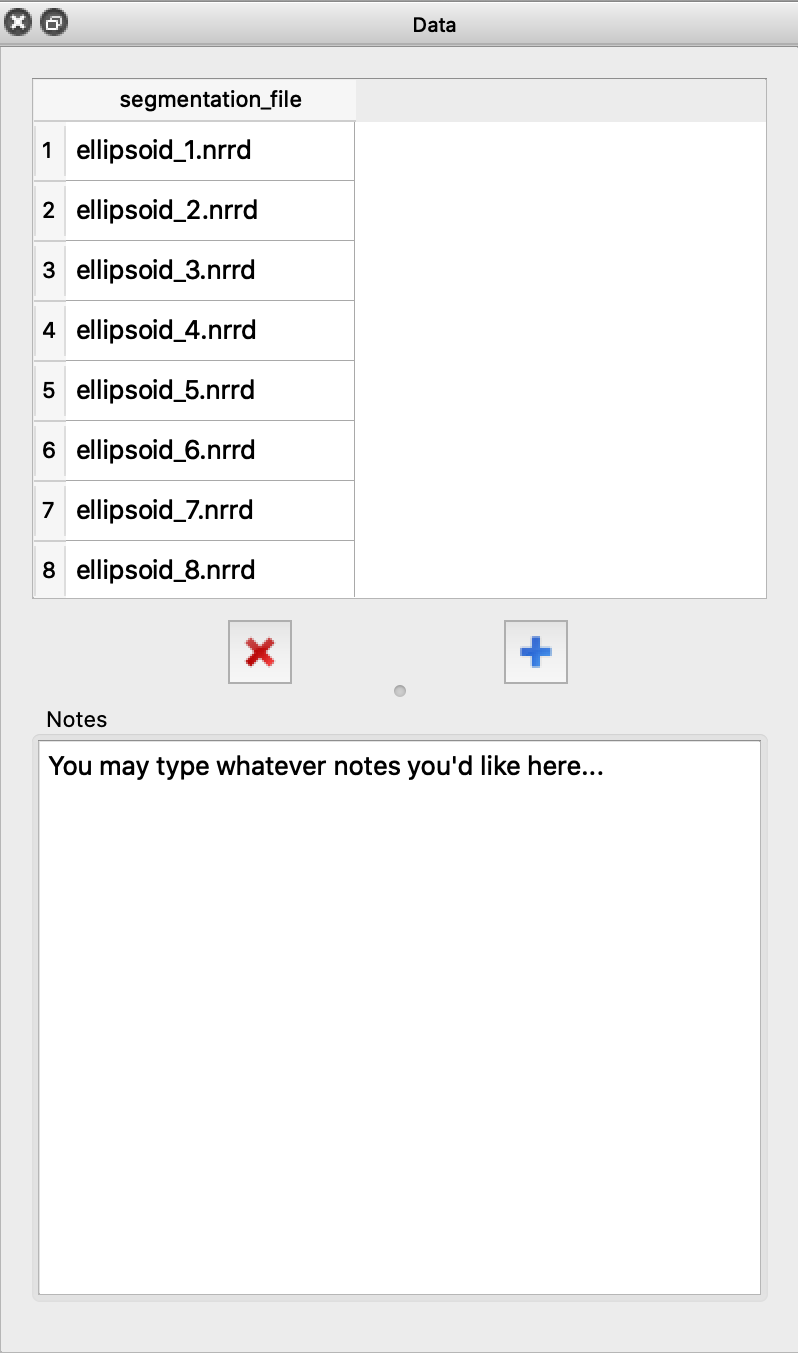
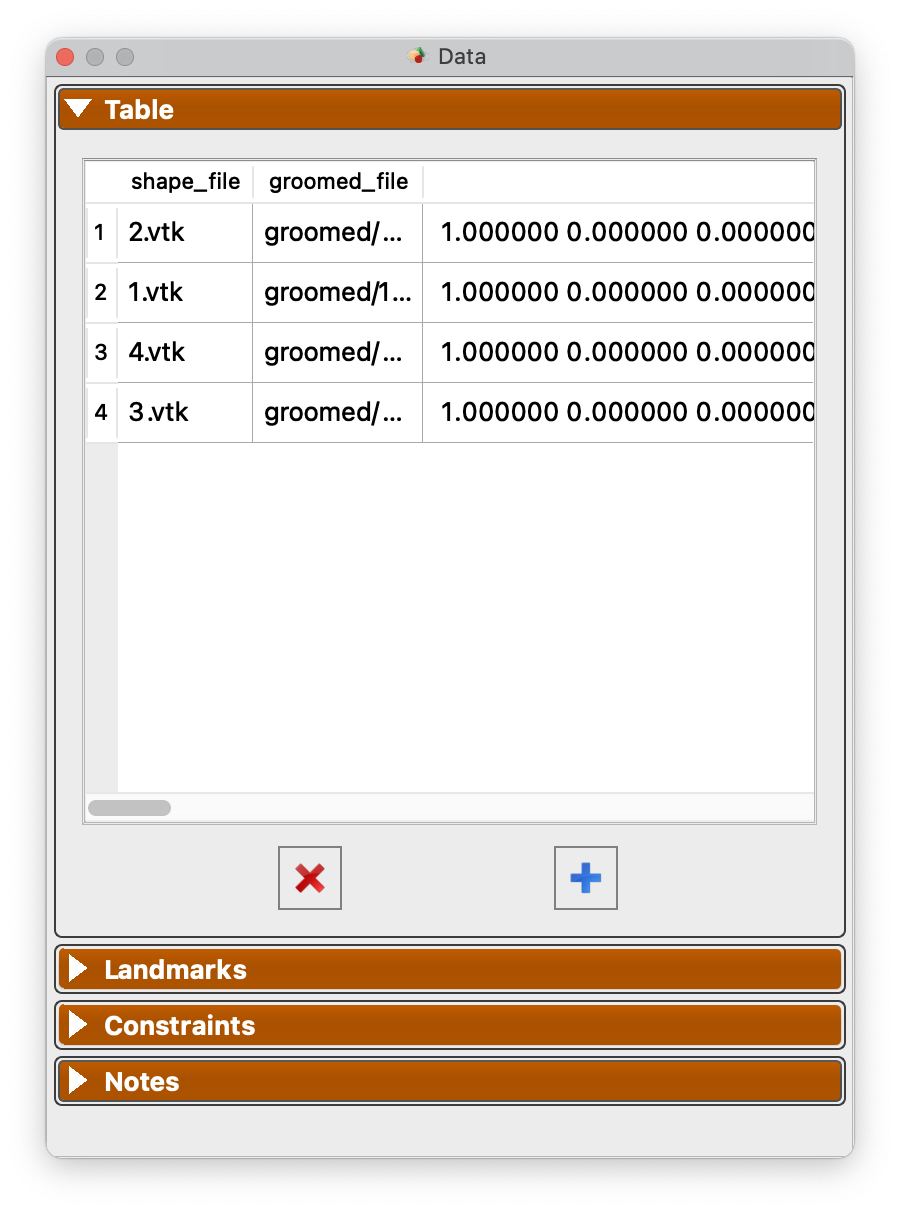
Iteration on updating Studio documentation.

Changed region(s): [[0.0, 0.0, 1.0, 0.9769]]

diff --git a/docs/studio/getting-started-with-studio.md b/docs/studio/getting-started-with-studio.md
@@ -1,8 +1,7 @@
 # Getting Started With ShapeWorks Studio
 
 ShapeWorks Studio provides an all-in-one GUI based interface to the
-ShapeWorks toolkit.  In Studio, you can Groom, Optimize and Analyze
-your data all within a single interface.
+ShapeWorks toolkit.  In Studio, you can manage input Data, Groom, Optimize and Analyze your data all within a single interface.
 
 ## Splash Screen
 
@@ -12,9 +11,11 @@ The splash screen provides access to recent projects and an option to create a n
 
 ## Data Module
 
-The Data Module shows the project data table as well as user-defined/saved notes. This module enables you to add and remove shapes (segmentations and surface meshes) to your cohort for further analysis.
+The Data Module shows the project data table, landmarks, constraints as well as user-defined/saved notes. This module enables you to add and remove shapes (segmentations and surface meshes) to your cohort, define anatomical landmarks, place cutting planes and free form constraints for surface exclusion.
 
 ![ShapeWorks Studio Data Module](../img/studio/studio_data.png){: width="300" }
+
+See [Studio Data Module](studio-data.md) for more information.
 
 ## Groom Module
 
@@ -22,67 +23,21 @@ The Groom module provides options to preprocess/groom the input data.  Options d
 
 ![ShapeWorks Studio Groom Module](../img/studio/studio_groom.png){: width="300" }
 
+See [Studio Groom Module](studio-groom.md) for more information.
+
 ## Optimize Module
 
 The Optimize module provides options for the particle-based optimization.  After selecting options and clicking "Run Optimize", you can monitor the process of the optimization in real-time.  Particle positions will be displayed on individual shapes as they progress where color encodes surface correspondences across different shapes in your cohort.
 
 ![ShapeWorks Studio Optimize Module](../img/studio/studio_optimize.png){: width="300" }
 
+See [Studio Optimize Module](studio-optimize.md) for more information.
+
 ## Analysis Module
 
 After optimization is complete, you may analyze the data in Studio using the Analysis module.  There are several panels available in the Analysis Module.
 
-### View Panel
-
-The View panel contains all of the options for controlling the analyis viewer options.
-
-![ShapeWorks Studio Analysis View Panel](../img/studio/studio_analyze_view.png)
-
-#### Group
-
-The Group mode allows for group comparison to quantify and visualize population-level differences.  Each `group_<value>` column from the project can be selected and the differences between any two values (i.e., group identifiers) in the groups can be displayed by selecting the group values in the left and right dropdown boxes.  A group difference display showing vectors and a colormap of distance can be shown using the "Diff -->" button.
-
-![ShapeWorks Studio Analysis View Panel Group Display](../img/studio/studio_analyze_view_group.png)
-
-#### Samples
-
-The Samples tab of the view panel allows you to view all of the samples in your cohort, view a single sample by index, or view the median sample.
-
-![ShapeWorks Studio Analysis View Panel Sample Display](../img/studio/studio_analyze_view_samples.png)
-
-#### PCA
-
-The PCA tab of the View panel shows reconstructed shapes (surface meshes) along PCA modes of variation. Modes of variations are shape parameters learned/discovered from your data that describes shape variations. You can control the location along the PCA mode with the Standard Deviation slider.  The extent of this slider is configurable in [Preferences](#preferences).  Values displayed:
-
-`Lambda` - This shows the PCA loading of current position of the slider.  The middle of the slider, at the mean value, will be 0.  The extent of lambda is defined by the number of standard deviations of the slider as described above.  At standard deviation of 1.0, it will be the square root of the mode's eigenvalue.
-
-`Eigenvalue` - This shows the eigenvalue of the currently selected mode.  This is a unitless measure of how much variance is explained by this mode.  The modes are sorted in decreasing order of eigenvalue, corresponding to the most variance explained first.
-
-![ShapeWorks Studio Analysis View Panel PCA Display](../img/studio/studio_analyze_view_pca.png)
-
-### Metrics Panel
-
-The Metrics panel shows the Compactness, Specificity, and Generalization charts.  These are interactive charts with hover menus and the ability to zoom, pan, etc.
-
-![ShapeWorks Studio Analysis Metrics Panel](../img/studio/studio_analyze_metrics.png)
-
-See [Shape Model Evaluation](../new/ssm-eval.md) for more information about shape evaluation.
-
-### Surface Reconstruction Panel
-
-The surface reconstruction panel provides options for the surface reconstruction method.  There are three surface reconstruction methods available depending on the data you supply.
-
-`Legacy` - If an older XML file with only particle files is supplied, then only this option is available.  This is the fallback option since it requires only the particles.
-
-`Mesh Warping Based` - Mesh warping based method that utilizes the mean mesh.  You must have either meshes supplied or image based (distance transforms).
-
-`Distance Transform Based` - Surface reconstruction based on distance transforms.  Project must have distance transforms.
-
-![ShapeWorks Studio Analysis Surface Reconstruction Panel](../img/studio/studio_analyze_surface_reconstruction.png)
-
-Below is an example of the difference in using this option.
-
-![ShapeWorks Studio Surface Reconstruction Result](../img/studio/studio_analyze_surface_reconstruction_result.png)
+See [Studio Analyze Module](studio-analyze.md) for more information.
 
 ## Preferences
 

diff --git a/docs/studio/studio-analyze.md b/docs/studio/studio-analyze.md
@@ -1,0 +1,55 @@
+# ShapeWorks Studio Analyze Module
+
+After optimization is complete, you may analyze the data in Studio using the Analysis module.  There are several panels available in the Analysis Module.
+
+## View Panel
+
+The View panel contains all of the options for controlling the analyis viewer options.
+
+![ShapeWorks Studio Analysis View Panel](../img/studio/studio_analyze_view.png)
+
+### Group
+
+The Group mode allows for group comparison to quantify and visualize population-level differences.  Each `group_<value>` column from the project can be selected and the differences between any two values (i.e., group identifiers) in the groups can be displayed by selecting the group values in the left and right dropdown boxes.  A group difference display showing vectors and a colormap of distance can be shown using the "Diff -->" button.
+
+![ShapeWorks Studio Analysis View Panel Group Display](../img/studio/studio_analyze_view_group.png)
+
+### Samples
+
+The Samples tab of the view panel allows you to view all of the samples in your cohort, view a single sample by index, or view the median sample.
+
+![ShapeWorks Studio Analysis View Panel Sample Display](../img/studio/studio_analyze_view_samples.png)
+
+### PCA
+
+The PCA tab of the View panel shows reconstructed shapes (surface meshes) along PCA modes of variation. Modes of variations are shape parameters learned/discovered from your data that describes shape variations. You can control the location along the PCA mode with the Standard Deviation slider.  The extent of this slider is configurable in [Preferences](#preferences).  Values displayed:
+
+`Lambda` - This shows the PCA loading of current position of the slider.  The middle of the slider, at the mean value, will be 0.  The extent of lambda is defined by the number of standard deviations of the slider as described above.  At standard deviation of 1.0, it will be the square root of the mode's eigenvalue.
+
+`Eigenvalue` - This shows the eigenvalue of the currently selected mode.  This is a unitless measure of how much variance is explained by this mode.  The modes are sorted in decreasing order of eigenvalue, corresponding to the most variance explained first.
+
+![ShapeWorks Studio Analysis View Panel PCA Display](../img/studio/studio_analyze_view_pca.png)
+
+## Metrics Panel
+
+The Metrics panel shows the Compactness, Specificity, and Generalization charts.  These are interactive charts with hover menus and the ability to zoom, pan, etc.
+
+![ShapeWorks Studio Analysis Metrics Panel](../img/studio/studio_analyze_metrics.png)
+
+See [Shape Model Evaluation](../new/ssm-eval.md) for more information about shape evaluation.
+
+## Surface Reconstruction Panel
+
+The surface reconstruction panel provides options for the surface reconstruction method.  There are three surface reconstruction methods available depending on the data you supply.
+
+`Legacy` - If an older XML file with only particle files is supplied, then only this option is available.  This is the fallback option since it requires only the particles.
+
+`Mesh Warping Based` - Mesh warping based method that utilizes the mean mesh.  You must have either meshes supplied or image based (distance transforms).
+
+`Distance Transform Based` - Surface reconstruction based on distance transforms.  Project must have distance transforms.
+
+![ShapeWorks Studio Analysis Surface Reconstruction Panel](../img/studio/studio_analyze_surface_reconstruction.png)
+
+Below is an example of the difference in using this option.
+
+![ShapeWorks Studio Surface Reconstruction Result](../img/studio/studio_analyze_surface_reconstruction_result.png)

diff --git a/docs/studio/studio-data.md b/docs/studio/studio-data.md
@@ -1,3 +1,31 @@
+# ShapeWorks Studio Data Module
+
+![ShapeWorks Studio Data Module](../img/studio/studio_data.png){: width="300" }
+
+# Importing data
+
+There are multiple ways to import data into studio:
+
+1. From the command line:
+
+```
+  ShapeWorksStudio [file1] [file2]...
+```  
+
+2. File -> Import Shapes
+3. Click the `plus` / Import button in the Table panel
+4. Drag and drop supported files over the Studio window
+
+# Landmarks
+
+Studio supports adding, manipulating and moving anatomical landmarks for each input shape.  Landmarks should be corresponding between shapes and can be used for alignment/registration as well as initial particle position placement.
+
+![Studio Landmarks](../img/studio/studio_landmarks.png){: width="500" }
+
+
+*Below is a demonstration of the landmarks functionality.*
+<p><video src="https://sci.utah.edu/~shapeworks/doc-resources/mp4s/studio_landmarks.mp4" autoplay muted loop controls style="width:100%"></p>
+
 
 # Using Constraints in Studio
 

diff --git a/docs/studio/multiple-domains.md b/docs/studio/multiple-domains.md
@@ -15,7 +15,7 @@ In this example, we have defined two domains, `left_atrium` and `appendage`.  Th
 
 ## Grooming Multiple Domains
 
-When multiple domains are present, grooming options will be available on a per-domain basis with a combobox at the top of the grooming panel.  This allows for different grooming options depending on the anatomy type.
+When multiple domains are present, grooming options will be available on a per-domain basis with a combobox at the top of the grooming panel.  This allows for different grooming options depending on the anatomy type.  You may also apply the same grooming to all domains using the `Apply grooming parameters to all domains` checkbox.
 
 ![ShapeWorks Project with Multiple Domains - Groom](../img/studio/studio_multiple_domain_groom.png){: width="300" }
 

diff --git a/docs/studio/studio-optimize.md b/docs/studio/studio-optimize.md
@@ -1,0 +1,5 @@
+# ShapeWorks Studio Optimize Module
+
+The Optimize module provides options for the particle-based optimization.  After selecting options and clicking "Run Optimize", you can monitor the process of the optimization in real-time.  Particle positions will be displayed on individual shapes as they progress where color encodes surface correspondences across different shapes in your cohort.
+
+![ShapeWorks Studio Optimize Module](../img/studio/studio_optimize.png){: width="300" }

diff --git a/docs/studio/studio-groom.md b/docs/studio/studio-groom.md
@@ -1,0 +1,5 @@
+# ShapeWorks Studio Groom Module
+
+The Groom module provides options to preprocess/groom the input data.  Options differ for binary segmentations and meshes. You also have the option of skipping grooming if your data is already prepped.
+
+![ShapeWorks Studio Groom Module](../img/studio/studio_groom.png){: width="300" }
